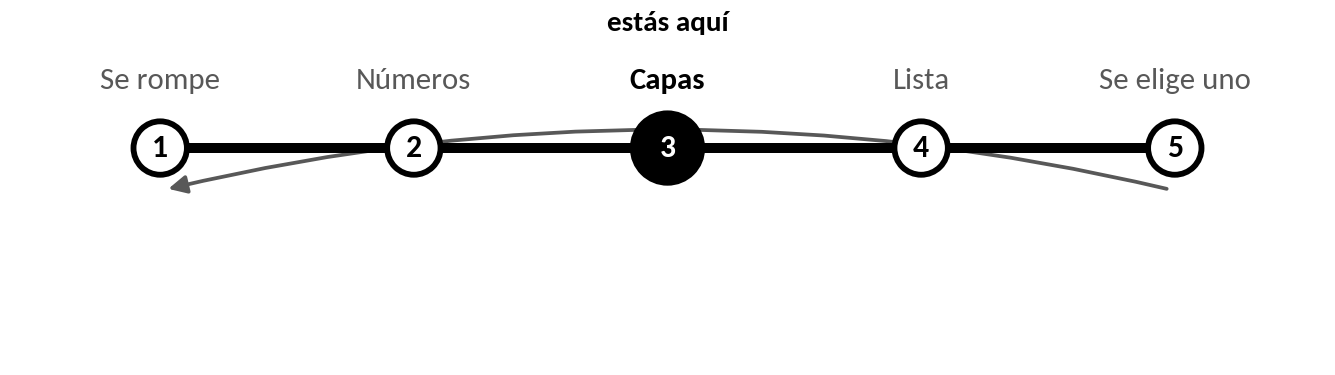
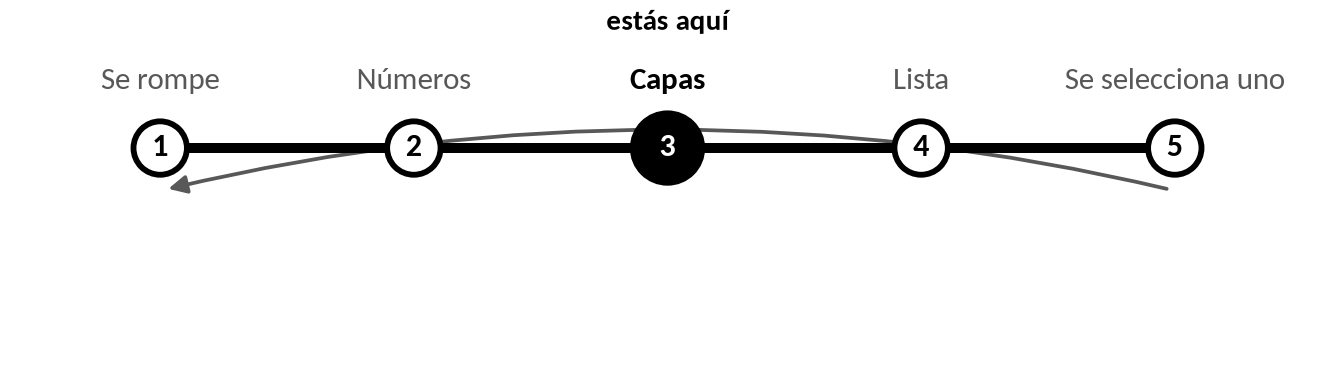
Figuras sin personilla (L25) y la escalera de los trozos, más clara
Carlos, 4 de octubre. La escalera pasa a «Cómo se corta una palabra, según la
caja» (cómo quedaría cortada con una caja de 0, 10… juntas; cada recuadro es un
trozo), para que no se lea como la máquina formando la palabra. Y las figuras
que aún decían lo que REGLAS 5 quater quita: «Se elige uno» → «Se selecciona
uno» (línea circular), «apuesta por» → «lo más probable» (mirada a mano, y el
rótulo de mirada_a_mano.txt, que no se re-ejecuta: solo cambia el texto),
«tiene que adivinar» → «tiene que acertar», «este punto no decide» → «no
cuenta», «En un paso adivina» → «saca su lista». Selftests en verde.

Claude-Session: https://claude.ai/code/session_01Qa7g31vtU99ErNE2o7BaxH

diff --git a/codigo/figura_mirada_a_mano.py b/codigo/figura_mirada_a_mano.py
@@ -46,7 +46,7 @@ def leer(ruta):
         f"se esperaban {CONTEXTO} casillas; hay {len(letras)} letras y {[len(r) for _, r in repartos]}"
     viene = re.search(r"en el Quijote viene detrás: «(.)»", tramo).group(1)
     m = re.search(r"reparte entre: al empezar ([\d,]+) letras; al final ([\d,]+)\.", tramo)
-    apuesta = re.search(r"apuesta por la siguiente: al empezar «(.)», al final «(.)»", tramo)
+    apuesta = re.search(r"lo más probable detrás: al empezar «(.)», al final «(.)»", tramo)
     extra = dict(viene=viene, reparte=(m.group(1), m.group(2)),
                  apuesta=tuple("_" if a == " " else a for a in apuesta.groups()))
     return frase, letras, repartos, extra
@@ -81,13 +81,13 @@ def dibujar(frase, letras, repartos, extra, paleta, ruta):
                                  edgecolor=p.tinta, linewidth=0.9, linestyle=(0, (2, 1.5))))
         L.texto(x + lado / 2, y - 4.6, extra["viene"], ha="center", tam=8.6, negrita=True)
         L.texto(x + lado / 2, y - 10.0, "viene", ha="center", tam=6.2, color=p.suave)
-        L.texto(x0 + ancho, y - 13.0, f"apuesta por «{extra['apuesta'][n - 1]}»", ha="right", tam=6.6,
+        L.texto(x0 + ancho, y - 13.0, f"lo más probable: «{extra['apuesta'][n - 1]}»", ha="right", tam=6.6,
                 color=p.suave)
         if n == 1:
             L.flecha()
     igual = f"{100 / CONTEXTO:.2f}".replace(".", ",")
     L.pie("«_» es un espacio. Borde grueso: la letra que mira. De trazos: la que viene de verdad detrás\n"
-          f"en el Quijote, que tiene que adivinar. Antes de aprender, cada una recibe {igual}, que "
+          f"en el Quijote, que tiene que acertar. Antes de aprender, cada una recibe {igual}, que "
           f"redondeado es {round(100 / CONTEXTO)}.")
     L.guardar(ruta)
 

diff --git a/codigo/figura_trocear_a_mano.py b/codigo/figura_trocear_a_mano.py
@@ -55,9 +55,9 @@ def de_la_salida(ruta):
 
 
 def dibujar(filas, paleta, ruta):
-    L = Lienzo("Cómo se suelda una palabra",
-               "«_murciélago» troceada con las juntas aprendidas del Quijote: 0, 10, 100, 1.000 y\n"
-               "10.000 piezas soldadas en la caja. Cada caja es un trozo; un hueco, un corte.",
+    L = Lienzo("Cómo se corta una palabra, según la caja",
+               "Cómo quedaría cortada «_murciélago» con una caja de 0, 10, 100, 1.000 y 10.000\n"
+               "juntas, aprendidas del Quijote. Cada recuadro es un trozo; cada hueco, un corte.",
                paleta, alto=ALTO)
     p, ax = L.p, L.ax
     y = L.y - 3.2

diff --git a/codigo/mirada_a_mano.py b/codigo/mirada_a_mano.py
@@ -688,7 +688,7 @@ def main():
     assert texto.count(FRASE) == 1, "la frase tiene que salir una sola vez en el Quijote"
     viene = texto[i_frase + len(FRASE)]
     L += ["", "  «_» es un espacio.",
-          f"  apuesta por la siguiente: al empezar «{frases[0][2]}», al final «{frases[PASOS][2]}».",
+          f"  lo más probable detrás: al empezar «{frases[0][2]}», al final «{frases[PASOS][2]}».",
           f"  en el Quijote viene detrás: «{'_' if viene == ' ' else viene}».",
           f"  reparte entre: al empezar {coma(reparte_entre(frases[0][1]))} letras; "
           f"al final {coma(reparte_entre(frases[PASOS][1]))}.", ""]

diff --git a/codigo/figura_linea_circular.py b/codigo/figura_linea_circular.py
@@ -31,7 +31,7 @@ ESTACIONES = [("Se rompe", "el texto, en piezas", None),
               ("Números", "{} números en cada lista", "números por trozo"),
               ("Capas", "{} capas de mirar y mezclar", "rondas, una detrás de otra"),
               ("Lista", "{} probabilidades", "trozos posibles en la salida"),
-              ("Se elige uno", "y se pega al texto", None)]
+              ("Se selecciona uno", "y se pega al texto", None)]
 
 # ==========================================================
 

diff --git a/codigo/figura_lo_que_encuentra_en_un_paso.py b/codigo/figura_lo_que_encuentra_en_un_paso.py
@@ -59,7 +59,7 @@ def leer(ruta=SALIDA):
 
 def dibujar(filas, cada_ultimo, paleta, ruta):
     L = Lienzo("Lo que se encuentra en un paso",
-               "En un paso adivina todas las letras de lo que lee y se corrige por todas a la vez.\n"
+               "En un paso saca su lista para cada letra de lo que lee y se corrige por todas a la vez.\n"
                "Cada punto: una vez que, en ese paso, se encuentra con lo que enseña el peldaño.",
                paleta, alto=ALTO)
     p, ax = L.p, L.ax

diff --git a/codigo/figura_una_neurona.py b/codigo/figura_una_neurona.py
@@ -55,7 +55,7 @@ TITULOS = [
 BAJADA_PIE = [0.022, 0.022, 0.090, 0.022]
 PIES = [
     "negro: donde hay tinta",
-    "negro: empuja hacia el «sí»\nblanco: empuja hacia el «no»\ngris: este punto no decide",
+    "negro: empuja hacia el «sí»\nblanco: empuja hacia el «no»\ngris: este punto no cuenta",
     "cada barra es el total de sumar los 64 puntos",
     "cada círculo es un aparato como el de arriba",
 ]
